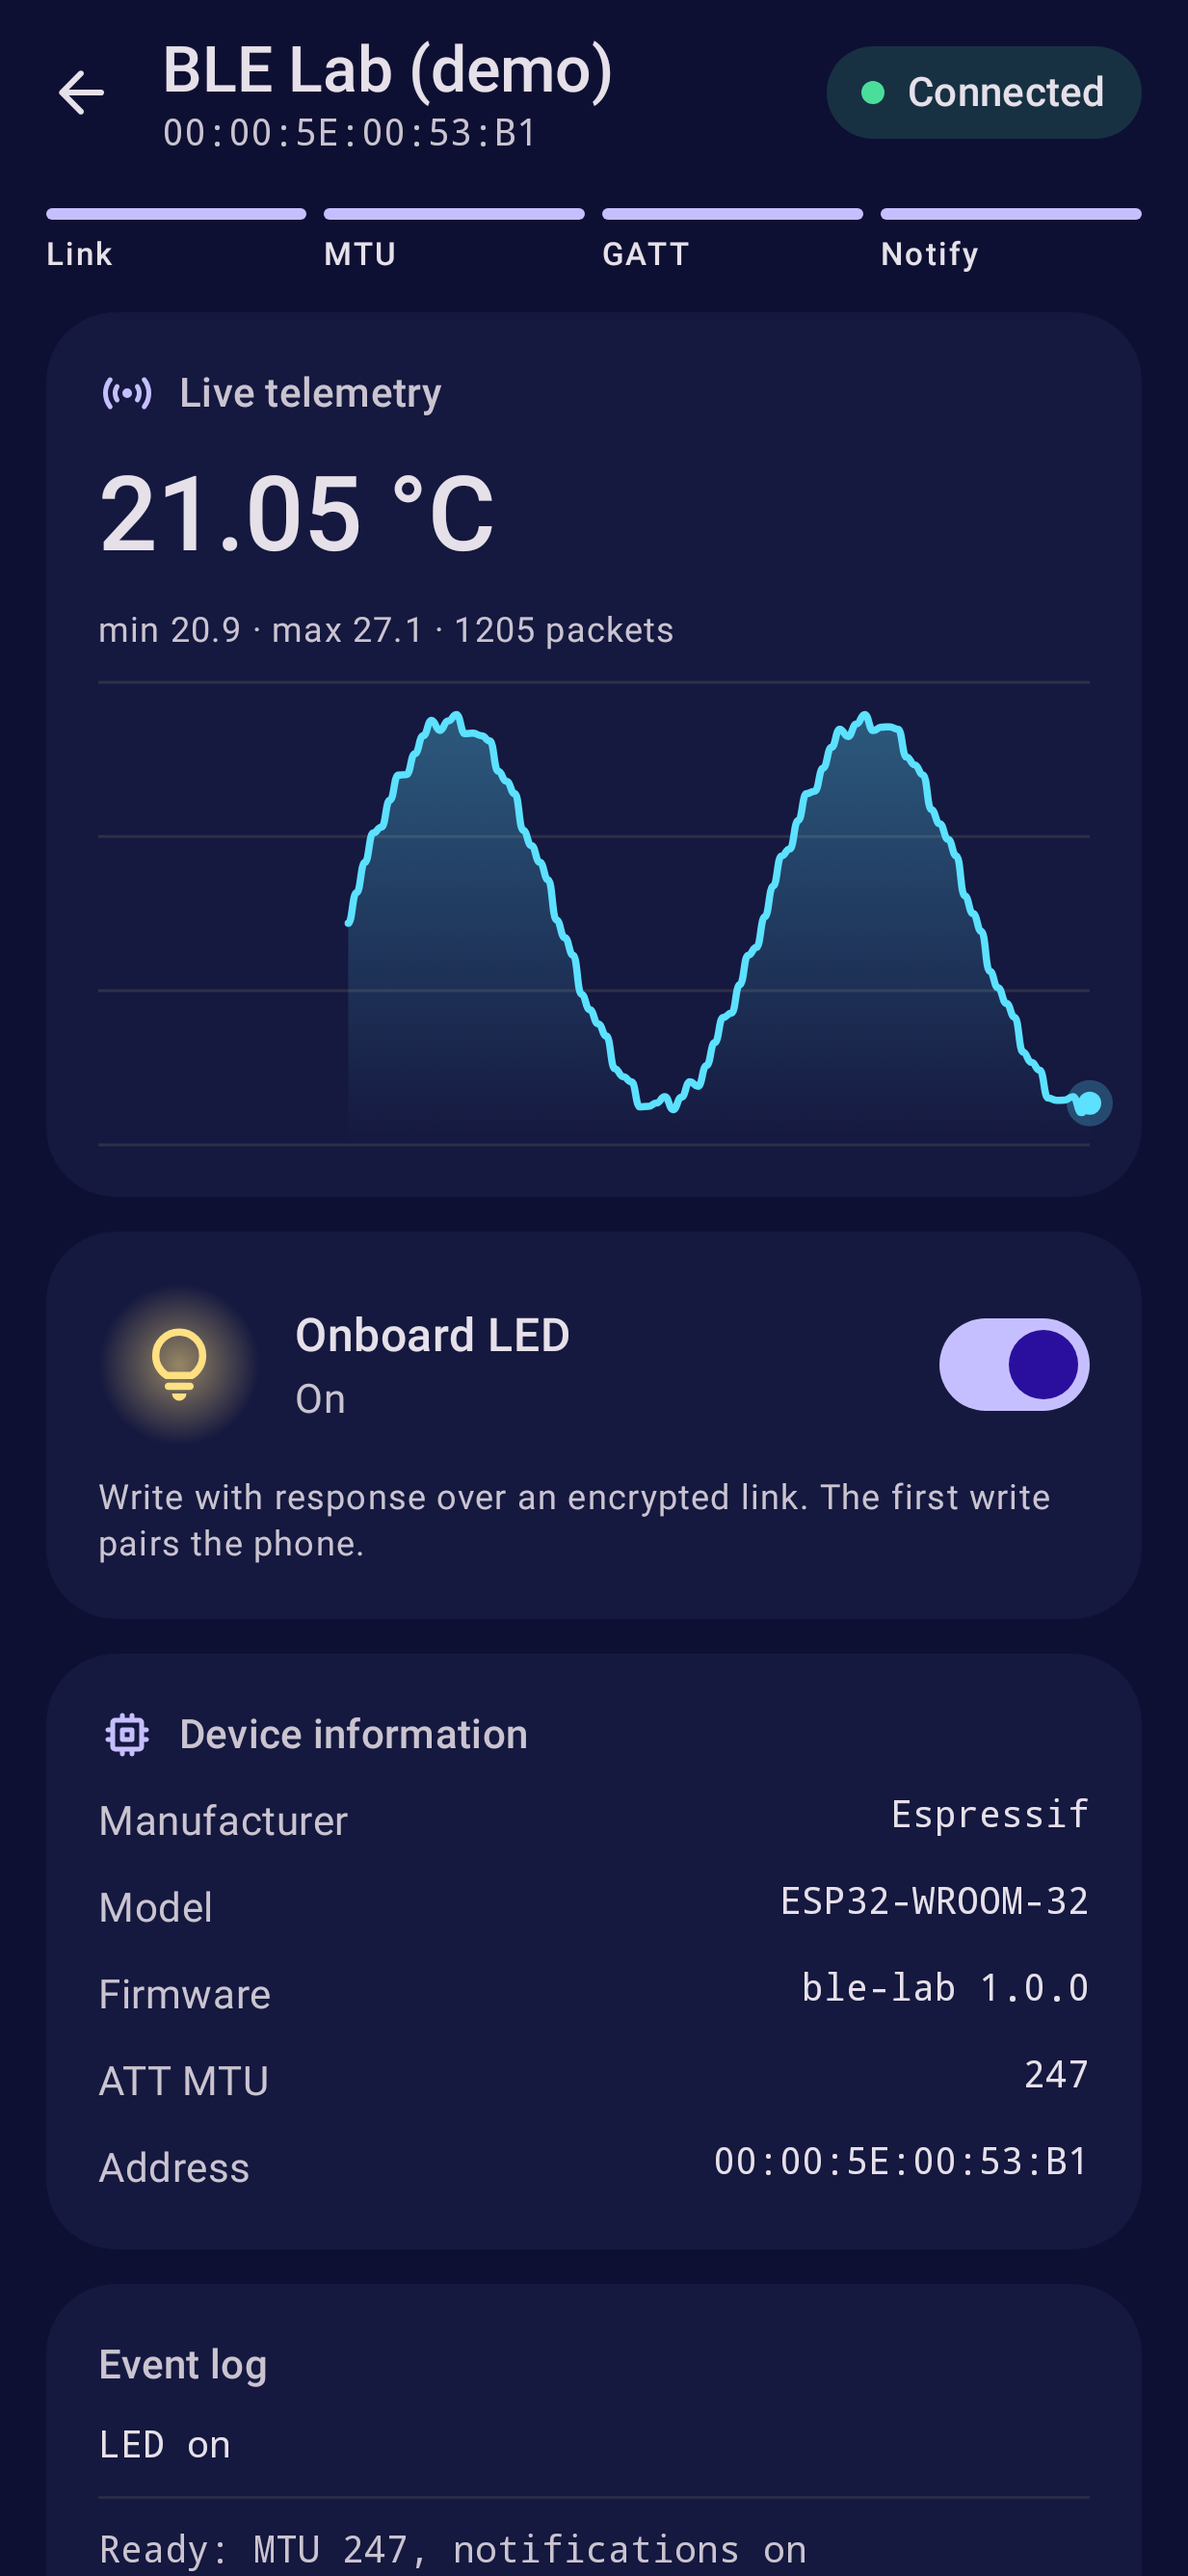
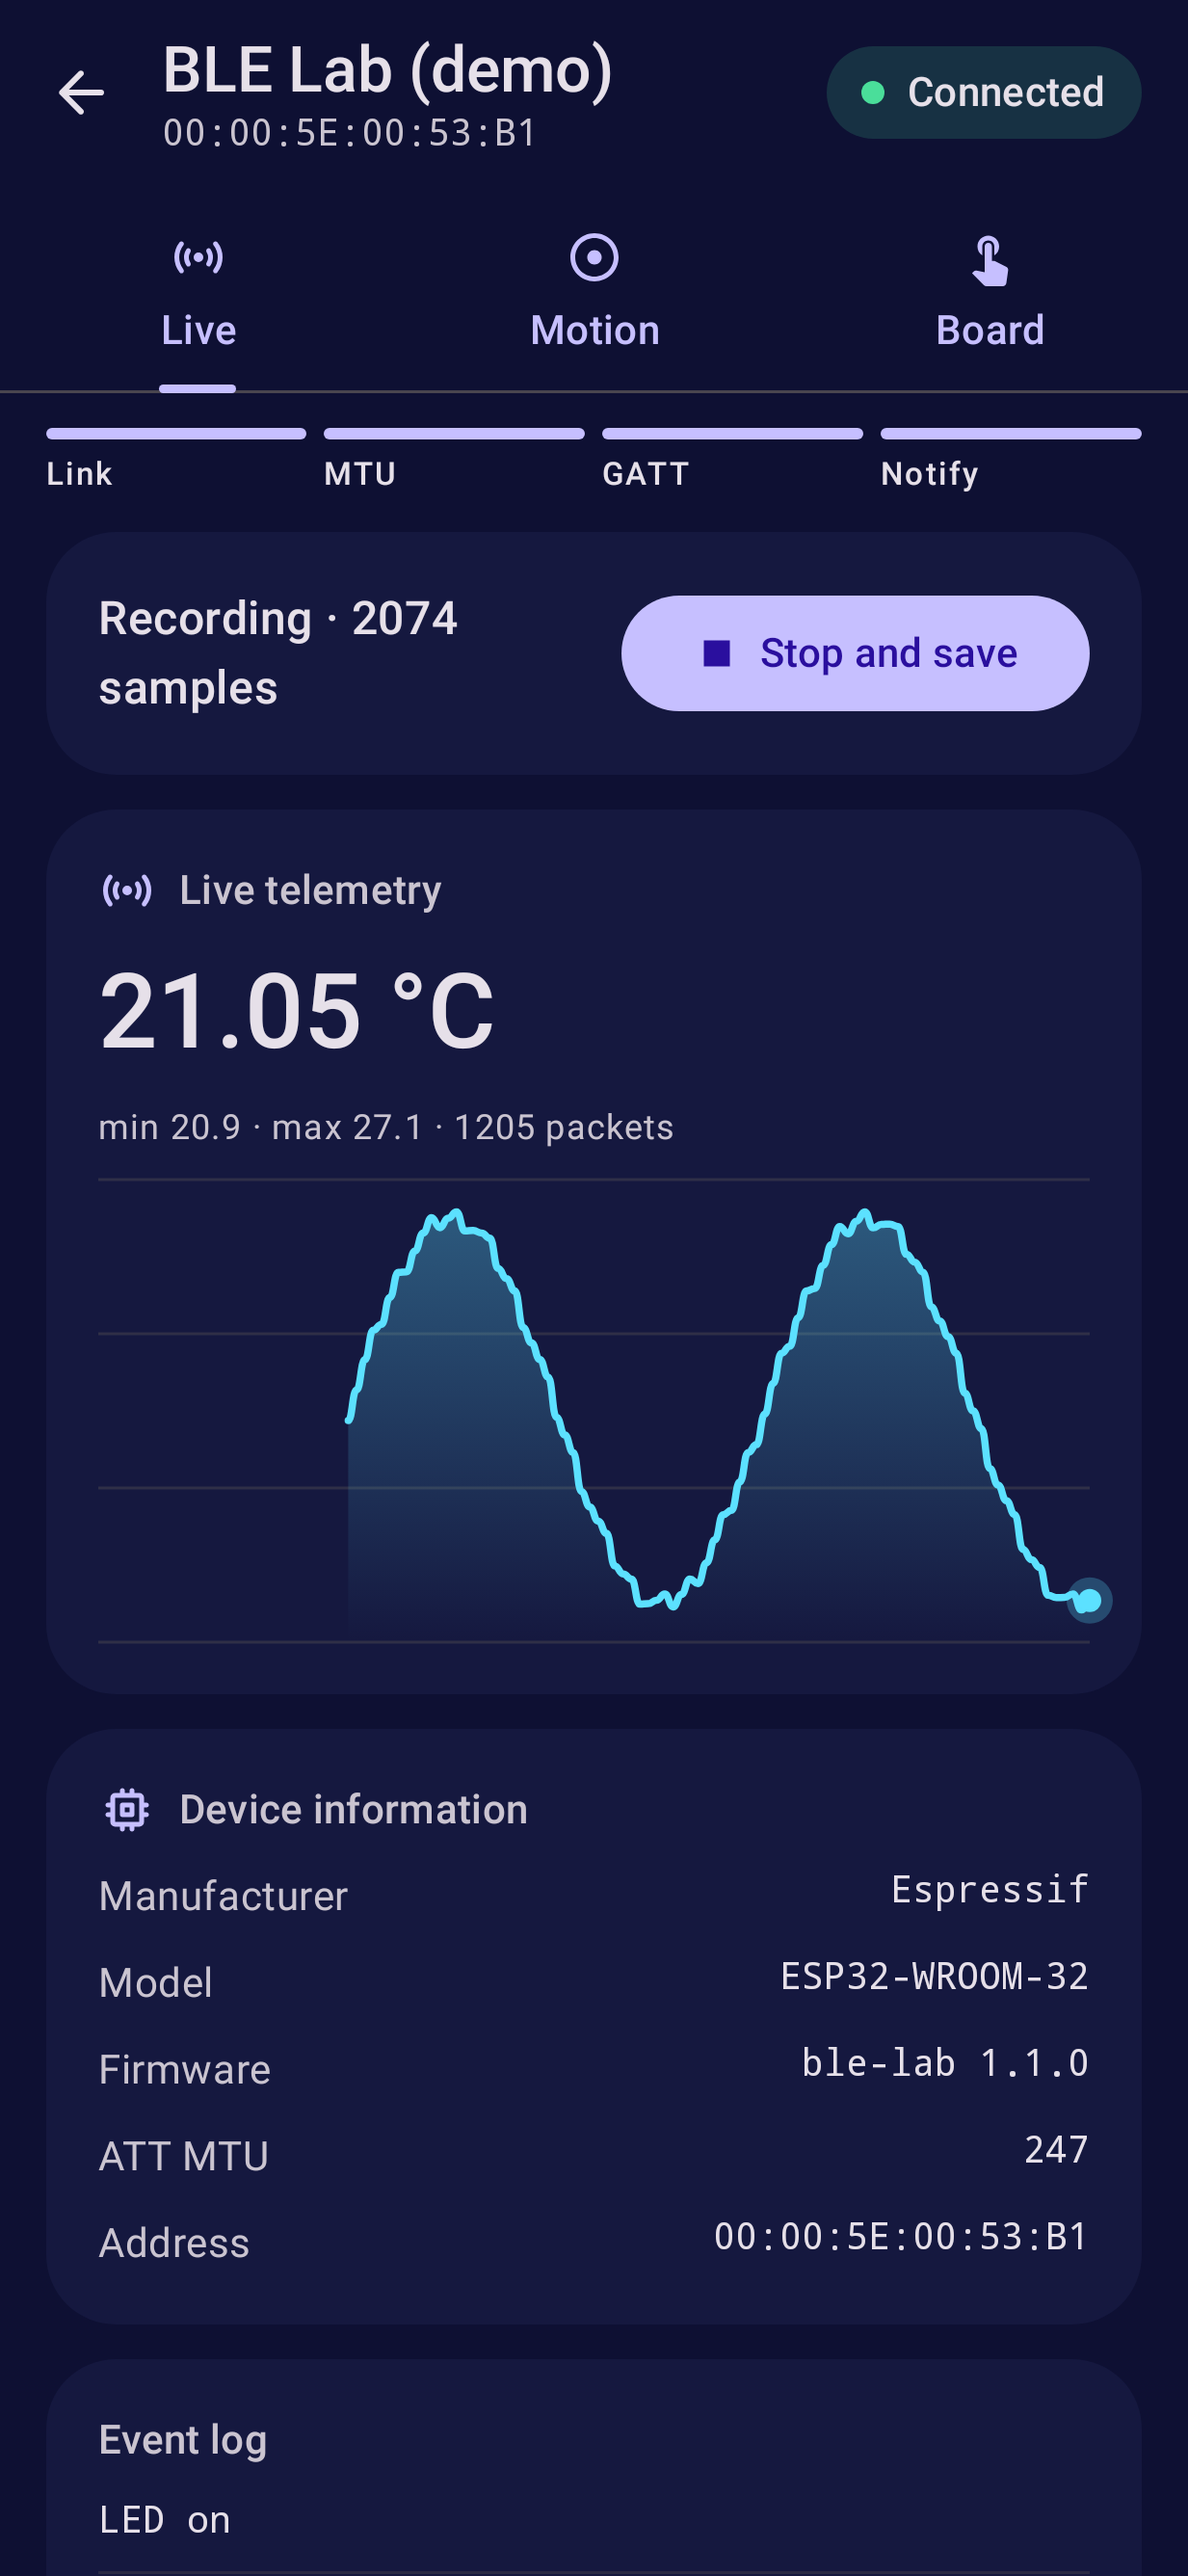
docs: screenshots for new screens, README what-it-does and new characteristics

diff --git a/README.md b/README.md
@@ -8,6 +8,22 @@ One Bluetooth Low Energy profile, three codebases:
 | [`android/`](android) | Android central | Kotlin 2.4, Jetpack Compose (Material 3), Hilt, coroutines/Flow |
 | [`ios/`](ios) | iOS central | Swift 6 (strict concurrency), SwiftUI, Swift Charts, Core Bluetooth |
 
+## What it does
+
+Connect a phone to an ESP32 over Bluetooth Low Energy and use it as a small IoT console:
+
+- **Live telemetry**: a sensor value streams to a live chart five times a second.
+- **Motion dashboard**: boards with a motion sensor (M5Stack CoreS3) stream accelerometer and gyroscope
+  data; the Android app draws live charts and a tilt indicator. A plain ESP32 DevKit has no sensor, so
+  the app says so instead of showing empty charts.
+- **Two-way control**: switch the board LED, send a text message that appears on the board screen, and
+  see taps and long presses on the board touchscreen show up in the app.
+- **Recording and history**: record a telemetry and motion session on the phone (Room database), browse
+  past sessions, open a session chart, and export it as CSV through the share sheet.
+- **No board needed**: a built-in simulated ESP32 shows up as a "demo" device.
+
+The Android app has all of this. The iOS app still has the original scan, telemetry and LED features.
+
 Both apps scan, connect, negotiate MTU, discover services, stream notifications into a live chart,
 write a characteristic, pair when the peripheral asks, and reconnect with exponential backoff.
 The radio sits behind an interface on both platforms, with an in-memory simulated ESP32 behind
@@ -19,8 +35,11 @@ you can use with no board at all.
 | Item | UUID | Properties | Payload |
 |---|---|---|---|
 | Lab service | `B1E1AB00-5A1E-4C3A-9F5E-C0DE00B1E1AB` | primary, advertised | |
-| Telemetry | `B1E1AB01-…-C0DE00B1E1AB` | read, notify (every 200 ms) | 7 bytes little-endian: `u32 seq`, `i16 value × 100`, `u8 flags` (bit 0 = LED) |
+| Telemetry | `B1E1AB01-…-C0DE00B1E1AB` | read, notify (every 200 ms) | 7 bytes little-endian: `u32 seq`, `i16 value × 100`, `u8 flags` (bit 0 = LED on, bit 1 = board has a motion sensor, bit 2 = board has a touchscreen) |
 | LED | `B1E1AB02-…-C0DE00B1E1AB` | read, **encrypted** write | 1 byte: `0x00` off, `0x01` on |
+| Motion | `B1E1AB03-…-C0DE00B1E1AB` | notify (50 Hz, batched) | header 8 bytes little-endian: `u32 t_ms` (board clock at the first sample), `u16 first sample index` (wraps), `u8 count`, `u8 period_ms`; then `count × 12` bytes: `i16 ax, ay, az` in milli-g, `i16 gx, gy, gz` in 0.1 deg/s. Batch size follows the MTU (1 sample at MTU 23, up to 5) |
+| Touch | `B1E1AB04-…-C0DE00B1E1AB` | notify | 8 bytes little-endian: `u16 event index` (wraps), `u8 kind` (1 tap, 2 long press), `u8 flags` (bit 0 = injected from the serial console), `u16 x`, `u16 y` (pixels, 320×240) |
+| Message | `B1E1AB05-…-C0DE00B1E1AB` | **encrypted** write | UTF-8 text, 1 to 64 bytes, shown on the board screen |
 | Device Information | `0x180A` | read | Manufacturer `0x2A29`, Model `0x2A24`, Firmware `0x2A26` |
 
 Preferred ATT MTU 247. The LED write needs an encrypted link, so the first write triggers
@@ -95,6 +114,11 @@ cd android
 
 minSdk 26, targetSdk 37, compileSdk 37. AGP 9.5 with its built-in Kotlin support, version catalog in `gradle/libs.versions.toml`.
 
+Screens: scan, device (Live, Motion and Board tabs), history, and session detail. Recording is a
+`SessionRecorder` behind a `RecordingRepository` port (Room 3 adapter, in-memory fake for tests); an
+open recording is closed when you leave the device screen, and a session left open by a killed process
+shows as "Not closed" in history. CSV export goes through a `FileProvider` and `ACTION_SEND`.
+
 Modules: `:ble` (pure Kotlin domain: GATT profile, codec, connection state machine, backoff, simulated
 peripheral; plus the thin `android.bluetooth` adapters) and `:app` (Compose UI, ViewModels, permissions, Hilt wiring).
 
@@ -147,6 +171,10 @@ iOS-specific notes:
 Recorded by Roborazzi on the JVM (Robolectric, API 36) against the simulated peripheral:
 [`docs/screenshots/android`](docs/screenshots/android).
 
+| Motion | Board | History | Session |
+|---|---|---|---|
+| <img src="docs/screenshots/android/device_motion_light.png" width="200" alt="Motion tab with tilt and charts"> | <img src="docs/screenshots/android/device_board_light.png" width="200" alt="Board tab with touches and message"> | <img src="docs/screenshots/android/history_light.png" width="200" alt="Recorded sessions"> | <img src="docs/screenshots/android/session_detail_light.png" width="200" alt="Session chart and CSV export"> |
+
 ### iOS
 
 Captured on a real iPhone 14 Pro running iOS 18.5 (Kobiton cloud device), connected to the
@@ -160,12 +188,12 @@ built-in demo peripheral: [`docs/screenshots/ios`](docs/screenshots/ios).
 
 | Suite | What it proves |
 |---|---|
-| Android `:ble` (33 tests) | telemetry codec (round trip, little-endian layout, unsigned sequence, clamping, short payloads), GATT status mapping, backoff growth/jitter/cap, scan aggregation and ageing, demo + real scanner merging, and the connection state machine: happy path with MTU and device info, MTU rejection falling back to 23, 133 retries then success, giving up after max attempts, non-retryable errors, link drop and reconnect with counter reset, pairing on demand and pairing refused, user disconnect stopping the reconnect loop |
-| Android `:app` (18 tests, 9 of them screenshots) | permission sets per API level, scan/device ViewModels over the simulated peripheral (streaming into the chart, LED write and rollback, retry after giving up), Roborazzi screenshots of each screen state |
+| Android `:ble` (55 tests) | telemetry codec (round trip, little-endian layout, unsigned sequence, clamping, short payloads), GATT status mapping, backoff growth/jitter/cap, scan aggregation and ageing, demo + real scanner merging, and the connection state machine: happy path with MTU and device info, MTU rejection falling back to 23, 133 retries then success, giving up after max attempts, non-retryable errors, link drop and reconnect with counter reset, pairing on demand and pairing refused, user disconnect stopping the reconnect loop; motion, touch and message codecs and their simulated peripheral |
+| Android `:app` (67 tests, 27 of them Compose/Roborazzi screen tests) | permission sets per API level, scan/device ViewModels over the simulated peripheral (streaming into the chart, LED write and rollback, retry after giving up, motion/touch/message state), recording sessions and CSV export, the Room repository, history and session ViewModels, tilt maths, Roborazzi screenshots of each screen state |
 | iOS `BLELabKit` (34 tests) | the same codec/backoff/state-machine cases as Android, Core Bluetooth error mapping, simulated central scan/connect, scan and device models, composite (real + demo) central routing |
 
 CI (`.github/workflows/ci.yml`): Android format, lint, unit and screenshot verification, Kover line
-coverage gate (80% minimum; currently 92.6% of lines, radio adapters excluded); firmware compile; iOS `swift test` and the simulator build.
+coverage gate (80% minimum; currently 92.7% of lines, radio adapters excluded); firmware compile; iOS `swift test` and the simulator build.
 
 ## On-device checklist
 
